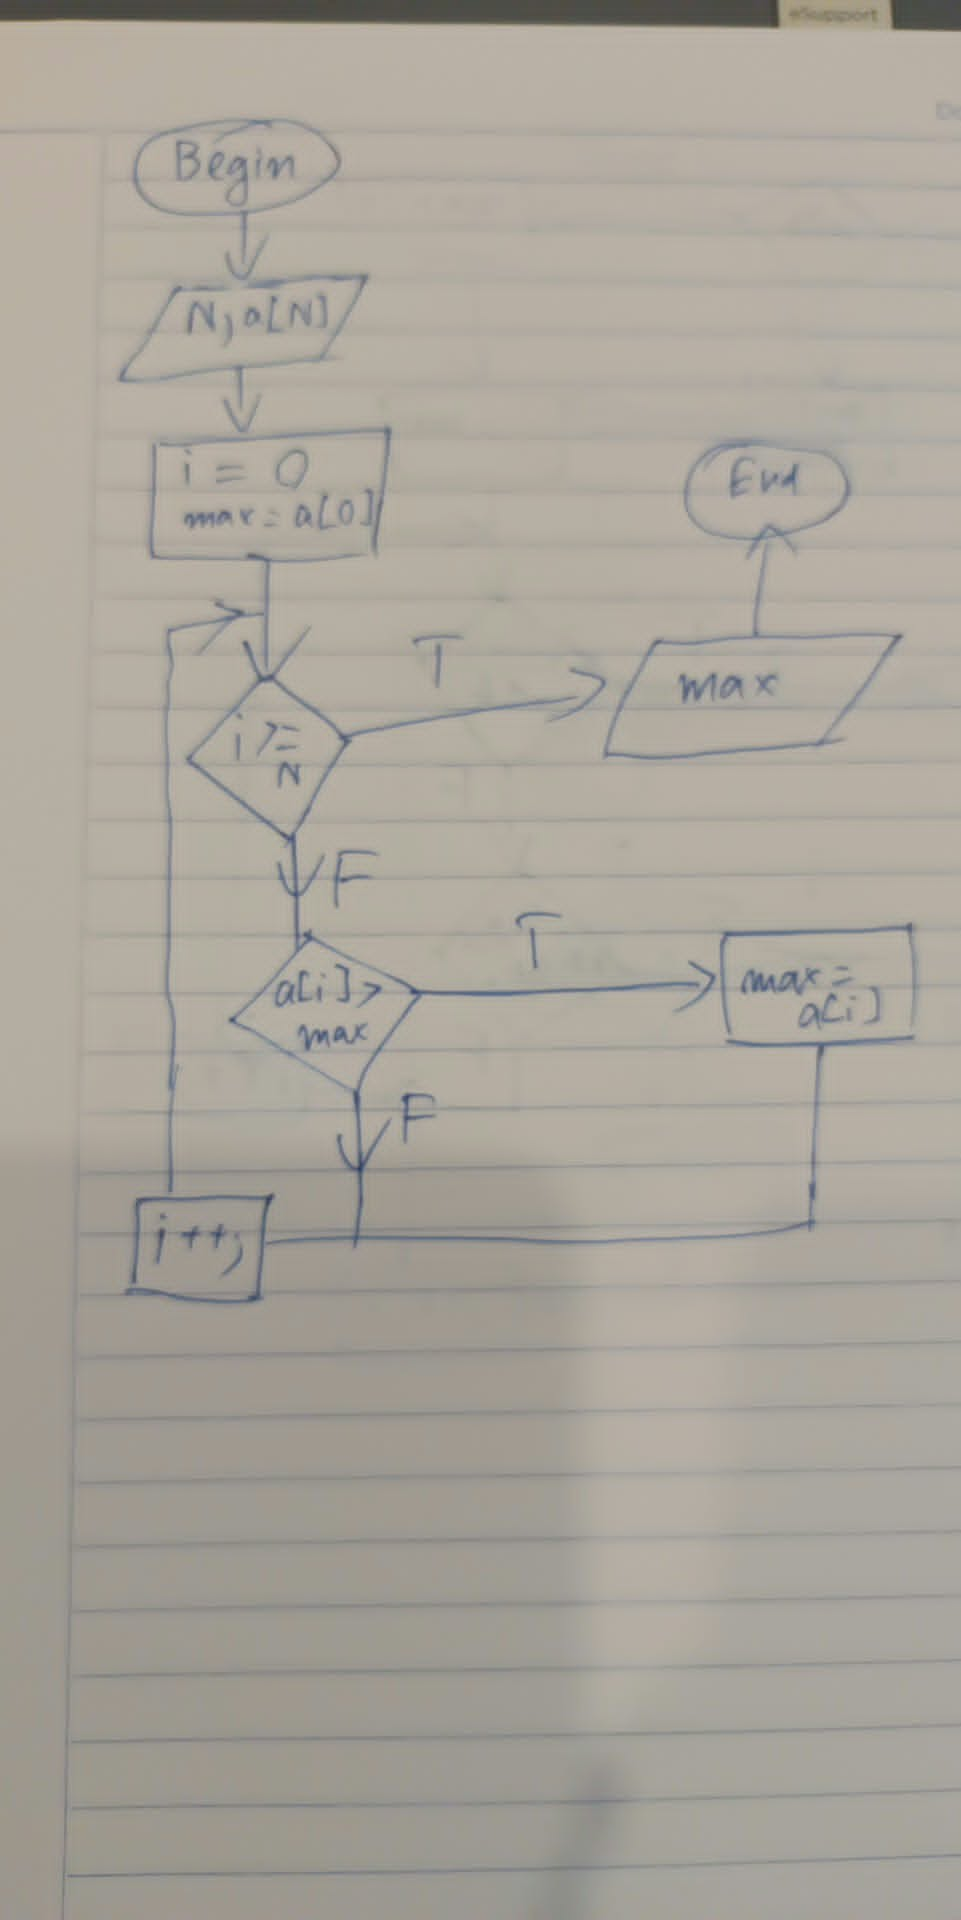
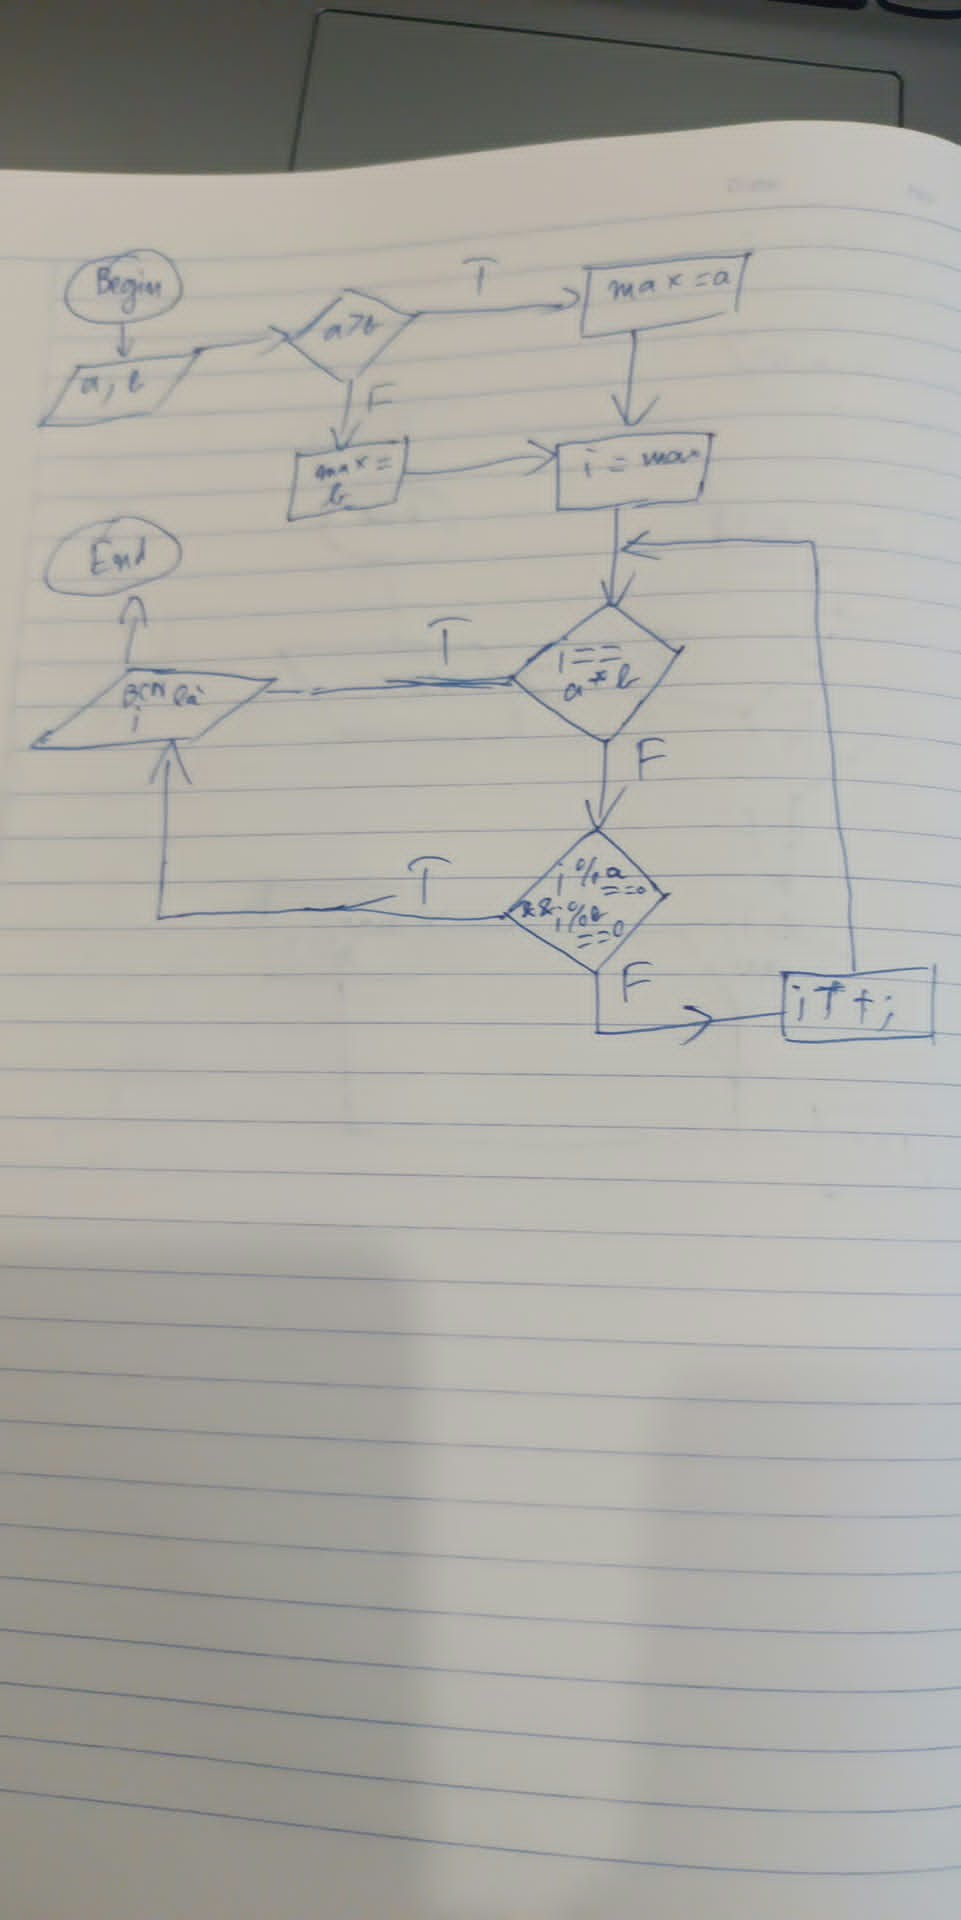
Add files via upload

diff --git a/ConsoleApplication1.cpp b/ConsoleApplication1.cpp
@@ -4,17 +4,14 @@
 #include<vector>
 
 int main() {
-	int n;
-	std::cin >> n;
-	int a[100];
-	for (int i = 0; i < n; i++) {
-		std::cin >> a[i];
-	}
-	int max = a[0];
-	for (int i = 1; i < n; i++) {
-		if (a[i] > max) {
-			max = a[i];
+	int a, b;
+	std::cin >> a >> b;
+	int max = a > b ? a : b;
+	for (int i = max; i <= a * b; ++i) {
+		if (i % a == 0 && i % b == 0) {
+			std::cout << i;
+			return 0;
 		}
 	}
-	std::cout << max;
+	std::cout << a * b;
 }
